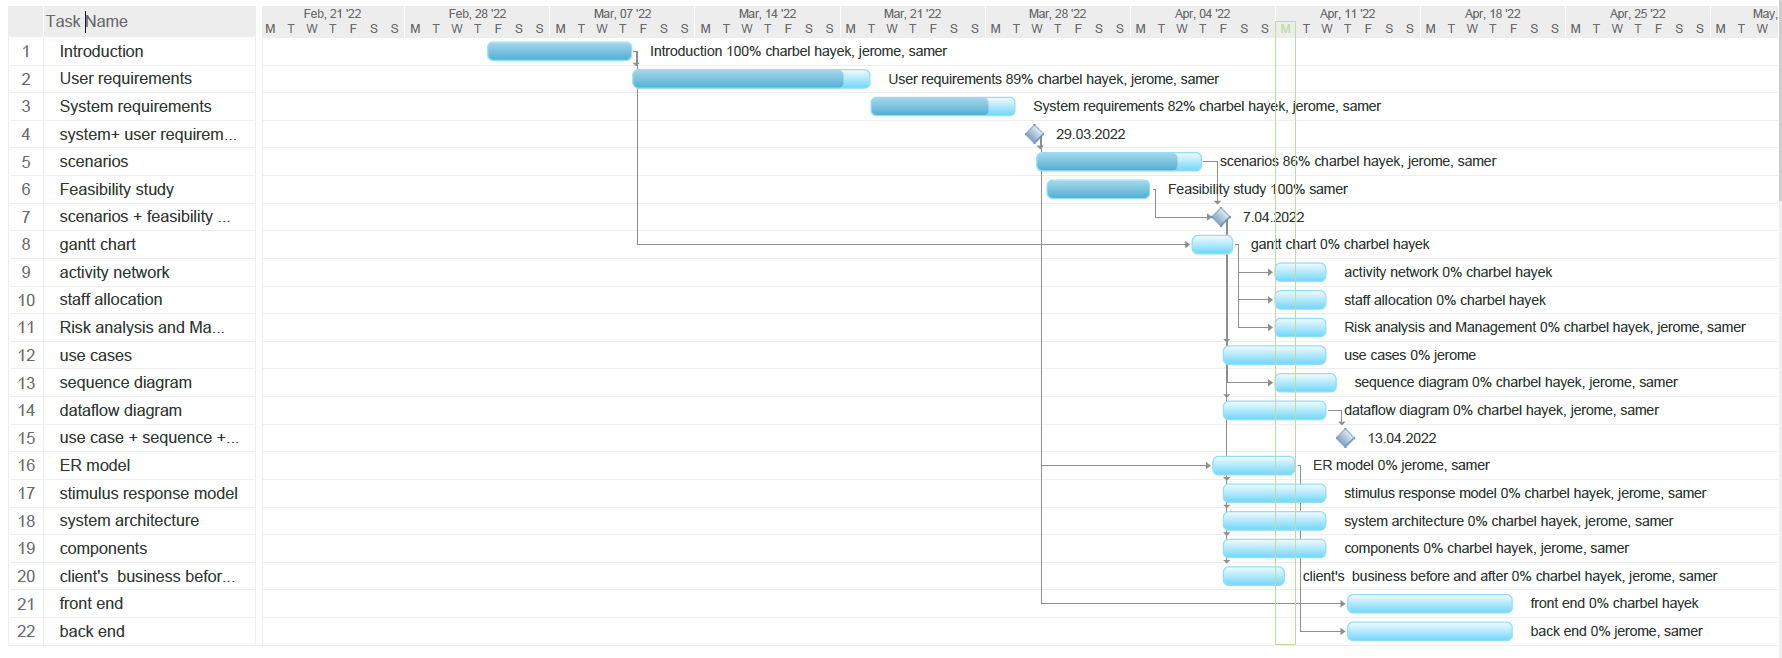
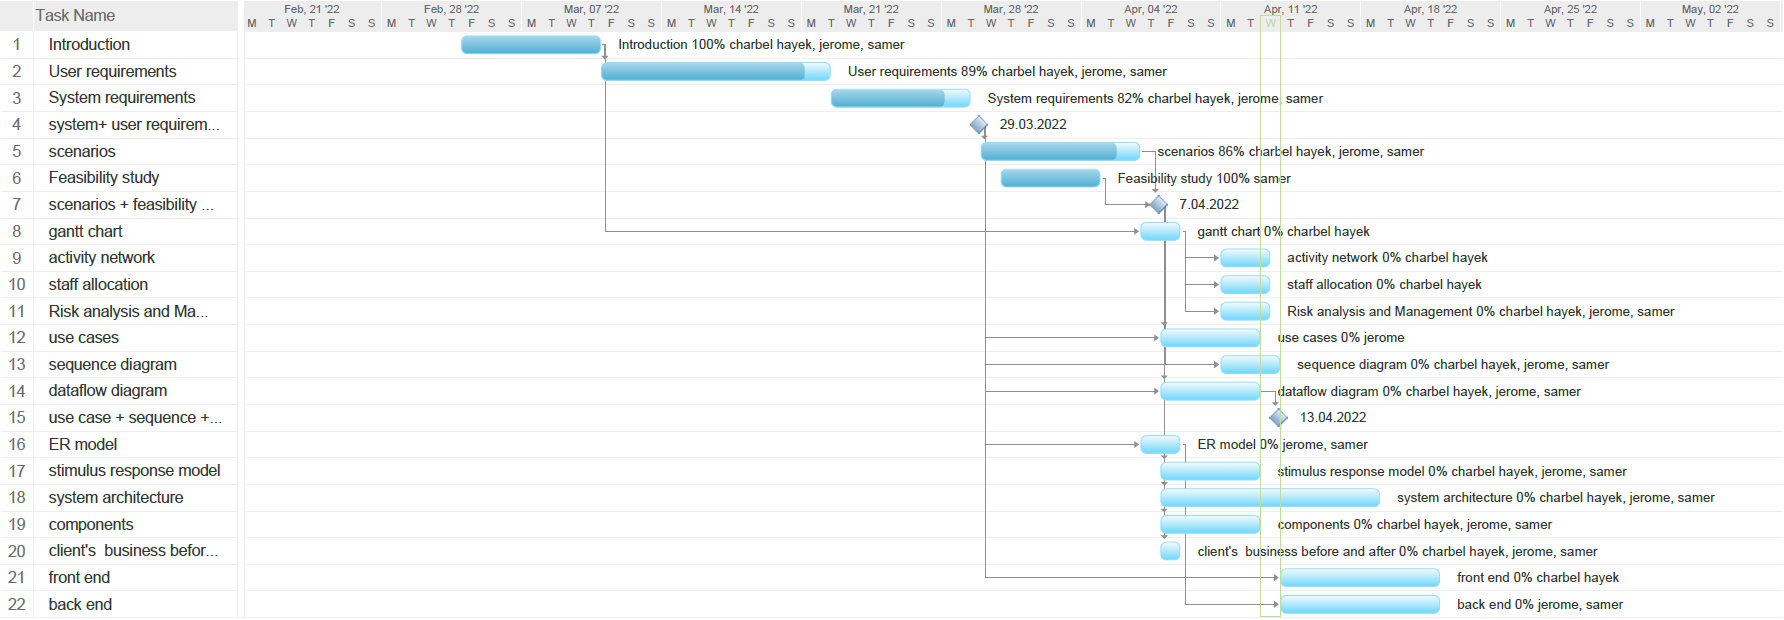
added Risk Management, Contingency Plan, and Resource List

Changed region(s): [[0.1235, 0.0, 1.0, 1.0], [0.0, 0.0, 0.1543, 1.0]]

diff --git a/main.tex b/main.tex
@@ -1,6 +1,7 @@
 \documentclass[12pt]{article}
 \usepackage[utf8]{inputenc}
 \usepackage{graphicx}
+\usepackage[table]{xcolor}
 \usepackage{tikz}
 \usepackage[a4paper,width=150mm,top=25mm,bottom=25mm]{geometry}
 \usepackage{hyperref}
@@ -100,9 +101,57 @@ So, as part of our Software Engineering project, we decided to contact the compa
     \label{fig:Gantt}
 \end{figure}
 
-\subsection{Activity Network}
-\subsection{Staff Allocation}
-\subsection{Risk Analysis and Management}
+\subsection{Risk Management}
+
+\begin{tabular}{ |p{2.4cm}|p{1.7cm}|p{4.9cm}|p{2.15cm}|p{2cm}|p{2.2cm}|  }
+\hline
+\multicolumn{6}{|c|}{\textbf{\large Possible Software Risks}} \\
+\hline
+\textbf{Risks}&\textbf{Affects}&\textbf{Description}&\textbf{Probability}&\textbf{Effects}&\textbf{Type} \\
+\hline
+Team member falling ill&Project, Product&Staff might fall ill at critical times, and this will
+result in their part of the project being
+assigned to another team member. But this will increase the workload on him, and it might
+compromise on the quality of the product or
+the deadline.&Moderate&Tolerable&People\\
+Team member dropping the course&Project, Product&A member of the team may drop out of the
+course, and this will
+result in their part of the project being
+assigned to another team member. But this will increase the workload on him, and it might
+compromise on the quality of the product or
+the deadline.&Low&Serious&People\\
+Time management problems with other courses&Project, Product&Some team members taking 12 or more credits, might find it difficult to manage their time, and therefore miss the deadlines.&Moderate&Serious&Estimation \\
+Candia Cameo going bankrupt&Business&The company might go bankrupt, and decide to drop the project without any further contact. This will result in us not being able to keep extracting requirements from the client&Low&Serious&Organization\\
+Disagreements between team members&Project, Product&Team members might come to disagreements when it comes to software design and implementation, which leads to conflict and wasting time.&Moderate&Tolerable&People\\
+EditorX shutting down&Product&The EditorX tool that we're going to use to develop the website, may shut down and no longer be available. This will result in team members not being able to implement the system.&Very Low&Catastrophic&Tools\\
+\hline
+\end{tabular}\\
+\\
+\begin{tabular}{ |p{7.675cm}|p{7.675cm}|  }
+\hline
+\multicolumn{2}{|c|}{\textbf{\large Contingency Plan}} \\
+\hline
+\textbf{Risks}&\textbf{Contingencey Plan} \\
+\hline
+Team member falling ill&The tasks that the ill team member was supposed to complete, will be divided on all other team members to complete.\\
+Team member dropping the course&The tasks that the team member who dropped the course was supposed to complete, will be divided on all other team members to complete.\\
+Time management problems with other courses&Increase the number of meetings between team members to ensure the tasks are being completed on time.\\
+Candia Cameo going bankrupt&Team members will act as the client to extract requirements.\\
+Disagreements between team members&Team leader should have the final word.\\
+ & \\
+EditorX shutting down&Team members should resort to writing code from scratch.\\
+\hline
+\end{tabular}
+\subsection{Resource List and Cost Estimate}
+\begin{itemize}
+  \item Draw.io
+  \item MySql Workbench
+  \item Projectmanager.com
+  \item LaTex
+  \item Google docs
+\end{itemize}
+
+Cost estimates: 0\$
 \section{Software Requirements}
 \subsection{Functional User Requirements}
 
@@ -823,7 +872,6 @@ So, as part of our Software Engineering project, we decided to contact the compa
 \\
 \textbf{Other activities:} the user clicked on multiple sections multiple times.\\
 \textbf{System State on completion:} : the user is redirected to a subsection and after that to the product.
-
 \end{minipage}}\\
 \vspace{1cm}
 \\
@@ -1062,7 +1110,6 @@ The admin might make a mistake while inserting the model’s picture or video th
 \section{Client's Business}
 \subsection{Before}
 \subsection{After}
-\section{Resource List}
 \section{Signatures}
 \section{Index}
 \end{document}
